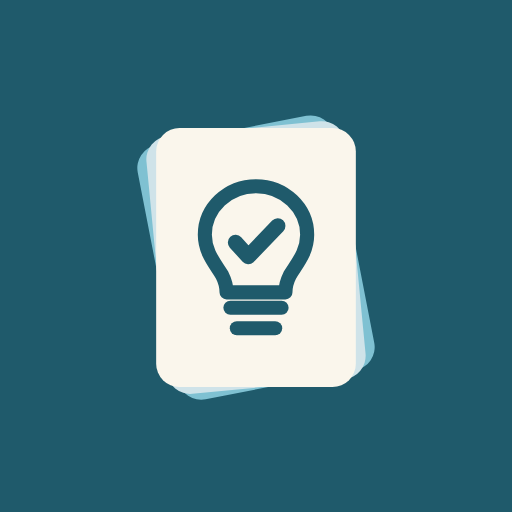
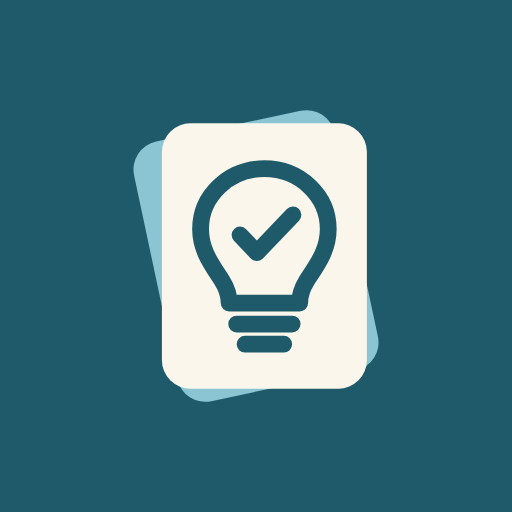
design: refine app identity and refresh project documentation

Changed region(s): [[0.375, 0.3125, 0.6562, 0.6875], [0.3438, 0.2188, 0.75, 0.7812], [0.25, 0.25, 0.3438, 0.75]]

diff --git a/README.md b/README.md
@@ -1,91 +1,167 @@
-# Memonowz
+![Memonowz — 내 자료로 만들고, 틀린 것만 다시 외우다](docs/assets/brand-banner.png)
 
-브라우저에 덱을 저장하고, 카드를 공부하거나 시험을 본 뒤 틀린 것만 다시 푸는 암기용 PWA입니다. 계정과 서버는 사용하지 않습니다.
+내가 가진 단어·기출문제·면접 질문을 덱으로 만들고 반복해서 푸는 **로컬 우선 암기 PWA**입니다. 계정 없이 시작하고, 카드와 학습 기록은 접속한 주소의 브라우저에 저장합니다.
 
-[앱 실행](https://memonowz.vercel.app) · [GitHub](https://github.com/jaymunsh/memonowz) · [JSON·붙여넣기 사용법](docs/card-authoring.md)
+**[앱 바로 열기](https://memonowz.vercel.app)** · [JSON·붙여넣기 가이드](docs/card-authoring.md) · [예시 덱](docs/examples/sample-deck.json) · [변경 기록](CHANGELOG.md)
 
-## 주요 기능
+[![Checks](https://github.com/jaymunsh/memonowz/actions/workflows/ci.yml/badge.svg)](https://github.com/jaymunsh/memonowz/actions/workflows/ci.yml)
 
-- 단어장: 단어 카드와 객관식 문제를 보기 중에서 고릅니다. 직접 지정한 오답 보기가 없으면 같은 덱의 다른 단어에서 뽑습니다.
-- 플래시카드: 답을 떠올린 뒤 뒤집고 스스로 채점합니다.
-- 공부하기: 기록 없이 앞뒤를 넘기며 살펴봅니다.
-- 시험보기: 검색·유형·태그·오답·핵심 필터를 적용하고, 순서와 장수를 선택합니다. 단어장에는 10초 제한을 설정할 수 있습니다.
-- 덱별 이어하기와 마지막 시험 결과를 유지합니다. 새 시험을 시작하면 해당 덱의 마지막 결과를 교체합니다.
-- 진행 중인 시험은 이어하기를 우선 표시합니다. 접힌 학습 설정에서 새 시험을 시작하거나 장수·순서·시간 제한을 바꿀 수 있으며 마지막 선택을 기억합니다.
-- 카드 목록의 정답은 기본으로 숨기며, ‘정답 표시’ 선택을 기억합니다.
-- 학습 기록에서 날짜별 정답률과 자주 틀린 카드를 확인합니다. 시험을 중간에 나가거나 새 시험을 시작해도 채점한 기록은 유지됩니다.
-- 카드 생성·편집·삭제, JSON 파일과 텍스트 붙여넣기, 덱 내보내기, 전체 백업과 복원을 지원합니다.
-- 라이트·다크·시스템 테마, 키보드 조작, 모바일 안전영역을 지원합니다.
-- 설정에서 글자 크기를 기본·크게·아주 크게(16·18·20px 기준)로 조절합니다. 문제, 답, 입력창과 보조 문구도 함께 커집니다.
+## 1분 안에 시작하기
 
-시험에서는 숫자키로 보기를 고르고, Space로 답을 보거나 다음 문제로 넘어갑니다. 뒤집기 채점은 답을 본 후 `1`(몰랐음)·`2`(알았음)으로 합니다. 공부하기에서는 Space로 답 보기·다음, 방향키로 이전·다음 카드를 조작합니다. 입력창과 편집 모달에서는 학습 단축키가 동작하지 않습니다. 버튼에 포커스가 있으면 Space는 해당 버튼의 기본 동작을 유지합니다.
+1. [앱](https://memonowz.vercel.app)을 열고 **설정 → 예시 덱 넣기 → 가져오기**를 누릅니다.
+2. 단어장과 플래시카드 덱을 하나씩 열어 **공부하기**로 답을 살펴봅니다.
+3. **시험보기**로 풀고, 결과에서 **틀린 것만 다시** 복습합니다.
+4. 내 자료를 넣으려면 홈에서 덱을 만든 뒤 **덱 메뉴 → 불러오기**를 사용합니다.
 
-## 실행
+설정에서 글자 크기와 테마를 바꿀 수 있습니다. 브라우저의 설치 메뉴로 홈 화면이나 독립 창에서도 사용할 수 있습니다. 온라인에서 앱을 한 번 열어 캐시가 준비된 뒤에는 저장된 덱을 오프라인에서도 학습할 수 있습니다.
 
-Node.js 24와 Corepack을 사용합니다. `packageManager`에 pnpm 버전이 고정되어 있습니다.
+## 내가 공부할 자료에 맞춰
+
+| 할 일 | Memonowz에서 하는 방법 |
+|---|---|
+| 단어와 용어 외우기 | **단어장**에서 보기를 골라 채점합니다. 오답을 직접 적거나 같은 덱의 다른 단어에서 가져옵니다. |
+| 긴 답변 떠올리기 | **플래시카드**에서 답을 뒤집어 확인하고 ‘몰랐음·알았음’으로 스스로 채점합니다. |
+| 틀린 카드만 복습하기 | 검색·유형·태그·틀림·핵심(★) 필터를 적용합니다. 결과에서도 오답만 다시 풀 수 있습니다. |
+| 짧게 나눠 공부하기 | 랜덤순·글자순, 10·20·50·전체 장수를 선택합니다. 단어장에는 문제마다 10초 제한을 켤 수 있습니다. |
+| 중간에 나갔다 돌아오기 | 덱별 **이어하기**를 제공합니다. 마지막 학습 조건과 정답 표시 선택도 기억합니다. |
+| 학습한 만큼 살펴보기 | **학습 기록**에서 날짜별 정답률과 자주 틀린 카드를 확인합니다. 중간에 끝낸 시험도 기록됩니다. |
+| 편하게 읽기 | 라이트·다크·시스템 테마와 글자 크기 기본·크게·아주 크게(16·18·20px 기준)를 지원합니다. |
+
+공부하기는 기록 없이 앞뒤를 살펴보는 모드입니다. 시험보기에서 채점한 답만 통계와 학습 기록에 쌓입니다. 자동 간격반복(SRS), 계정·클라우드 동기화, 앱 안의 AI 생성 기능은 아직 없습니다.
+
+<details>
+<summary>실제 화면 보기 — 덱과 학습 기록</summary>
+
+### 덱에서 고르고, 필요한 만큼 시험보기
+
+![검색과 필터, 학습 순서·장수 설정이 있는 Memonowz 덱 화면](docs/assets/deck.png)
+
+### 중간에 끝내도 남는 학습 기록
+
+![날짜별 채점 수와 정답률, 자주 틀린 카드를 보여주는 학습 기록 화면](docs/assets/history.png)
+
+위 화면은 앱에 포함된 예시 덱을 사용하는 모습입니다.
+
+</details>
+
+## 내 자료 가져오기
+
+### Excel·Google Sheets는 두 열만 복사
+
+첫 열에 앞면, 둘째 열에 뒷면을 적고 **제목 행 없이** 복사합니다. 덱 메뉴 → 불러오기 → 붙여넣기에 넣으면 `term` 카드로 바뀝니다. 기본 설정은 **한 줄에 한 장 / 탭 (Excel·Sheets)** 입니다.
+
+직접 입력할 때는 앞뒤 나누기 → 직접 입력에서 `::`를 지정해 다음처럼 쓸 수도 있습니다.
+
+```text
+cohesion::응집도
+coupling::결합도
+```
+
+입력 즉시 앞뒤와 장수를 미리 보고, 제외되는 행의 위치와 이유를 확인할 수 있습니다. 저장 버튼을 눌러야 덱에 추가됩니다.
+
+### JSON으로 설명과 객관식까지
+
+아래 전체 내용을 UTF-8 일반 텍스트 파일 `my-deck.json`으로 저장합니다. **설정 → 백업 또는 덱 파일 가져오기**에서 선택하고 확인 창의 **가져오기**를 누르면 새 덱이 생깁니다.
+
+```json
+{
+  "deck": {
+    "name": "소프트웨어 설계",
+    "flipOnly": false
+  },
+  "cards": [
+    {
+      "type": "term",
+      "front": "cohesion",
+      "back": "응집도",
+      "distractors": ["결합도", "추상화", "캡슐화"],
+      "tags": ["설계"],
+      "explanation": "한 모듈 안의 요소들이 같은 목적에 모인 정도다.",
+      "starred": true
+    },
+    {
+      "type": "mcq",
+      "question": "모듈 사이의 의존 정도를 뜻하는 것은?",
+      "choices": ["응집도", "결합도", "상속"],
+      "answer": 1,
+      "explanation": "결합도는 모듈 사이, 응집도는 모듈 내부를 본다."
+    }
+  ]
+}
+```
+
+- `answer`는 **0부터 세는 보기 위치**입니다. `1`은 두 번째 보기인 ‘결합도’를 뜻합니다.
+- `flipOnly: true`로 만들면 답을 떠올리고 뒤집어 채점하는 플래시카드 덱이 됩니다.
+- 기존 덱에 카드만 추가할 때는 `cards` 배열의 내용만 `[ ... ]`로 감싼 파일도 사용할 수 있습니다. 설정에서는 새 덱의 이름이 필요합니다.
+- JSON은 **파일 선택**으로 가져옵니다. JSON 코드를 텍스트 붙여넣기 칸에 넣는 방식은 지원하지 않습니다.
+
+[카드 작성 가이드](docs/card-authoring.md)에 필드 규칙, 여러 덱을 담는 파일, 긴 답 붙여넣기, 오류 처리와 외부 AI용 프롬프트를 정리했습니다. 바로 실행해 볼 파일은 [sample-deck.json](docs/examples/sample-deck.json)입니다.
+
+## 자료 공유와 학습 백업
+
+| 파일 | 내보내는 위치 | 포함하는 정보 |
+|---|---|---|
+| 덱 교환 파일 | 덱 메뉴 → 덱 내보내기 | 덱 유형, 카드 내용·태그·설명·핵심 표시 |
+| 전체 백업 | 설정 → 전체 백업 내보내기 | 덱·카드, 누적 통계, 생성 시각, 이어하기·마지막 결과, 날짜별 채점 기록 |
+
+**전체 백업 복원은 설정에서 합니다.** 기존 덱을 유지하면서 새 ID로 덱을 추가하고 기록·세션 참조도 함께 옮깁니다. 같은 파일을 다시 가져오면 덱도 다시 추가됩니다. 덱의 불러오기에서 전체 백업을 선택하면 카드 내용만 추가되며 학습 상태는 복구되지 않습니다.
+
+데이터는 **주소·브라우저·기기별로 따로 저장**됩니다. 로컬 주소에서 배포 주소로 옮기거나 브라우저 데이터를 삭제하기 전에 전체 백업을 다운로드하세요. 테마·글자 크기·마지막 학습 설정은 백업에 포함되지 않습니다.
+
+날짜별 기록은 기록 기능이 추가된 뒤 실제로 채점한 답부터 쌓입니다. 이전 버전의 날짜 없는 누적 통계를 추정해 과거 기록으로 만들지 않습니다. 카드를 삭제하거나 ‘외웠어요’를 눌러도 지난 기록은 유지되며, 덱을 삭제하면 해당 덱의 기록도 삭제됩니다.
+
+## 키보드로 학습하기
+
+| 모드 | 키 |
+|---|---|
+| 시험 | 숫자키로 보기 선택 · `Space`로 답 보기·다음 |
+| 뒤집기 채점 | 답을 본 뒤 `1` 몰랐음 · `2` 알았음 |
+| 공부 | `Space`로 답 보기·다음 · 방향키로 이전·다음 |
+
+입력창과 편집 모달에서는 학습 단축키가 동작하지 않습니다. 버튼에 포커스가 있으면 Space는 그 버튼의 기본 동작을 유지합니다.
+
+## 로컬 실행과 검증
+
+Node.js 24와 Corepack을 사용합니다. pnpm 버전은 `packageManager`에 고정되어 있습니다.
 
 ```sh
+git clone https://github.com/jaymunsh/memonowz.git
+cd memonowz
 corepack pnpm install --frozen-lockfile
 corepack pnpm dev
 ```
 
-pnpm이 설치되어 있다면 `corepack pnpm` 대신 `pnpm`을 사용해도 됩니다.
-
 ```sh
-corepack pnpm check        # strict TypeScript와 단위 테스트
-corepack pnpm build        # 프로덕션 PWA 빌드
-corepack pnpm preview      # 빌드 결과 확인
-```
-
-## 테스트
-
-```sh
-corepack pnpm test
+corepack pnpm check                 # strict TypeScript + 단위 테스트
+corepack pnpm build                 # 프로덕션 PWA 빌드
+corepack pnpm preview               # 빌드 결과 확인
 corepack pnpm exec playwright install chromium
-corepack pnpm test:e2e
+corepack pnpm test:e2e              # 브라우저 회귀 테스트
 ```
 
-Vitest는 스키마·파서·출제·편집 변환·저장소 트랜잭션·마이그레이션·백업을 검증합니다. Playwright는 실제 IndexedDB를 사용해 편집, 이어하기, 새로고침, 저장 실패 재시도, 백업 복원과 모달 키보드 조작을 검증합니다. 브라우저 테스트마다 새로운 브라우저 컨텍스트를 사용하므로 개인 덱에 접근하지 않습니다.
+Vitest는 스키마·파서·출제·편집·트랜잭션·마이그레이션·백업을 검증합니다. Playwright는 실제 IndexedDB로 편집·이어하기·새로고침·저장 실패 재시도·백업 복원과 키보드 조작을 확인합니다. 브라우저 테스트는 개인 덱과 분리된 새 컨텍스트에서 실행합니다.
 
-설치된 Chromium을 사용하려면 `PLAYWRIGHT_CHROMIUM_EXECUTABLE_PATH`에 실행 파일 경로를 지정할 수 있습니다. GitHub Actions에서는 테스트, 타입 검사, 빌드와 Chromium 브라우저 테스트를 실행합니다.
+설치된 Chromium을 사용하려면 `PLAYWRIGHT_CHROMIUM_EXECUTABLE_PATH`를 지정할 수 있습니다. GitHub Actions는 타입 검사·단위 테스트·빌드·브라우저 테스트를 실행합니다.
 
-## 데이터와 백업
+## 구조와 배포
 
-데이터는 접속한 주소의 브라우저 IndexedDB에 저장됩니다. 다른 주소·브라우저·기기에서는 자동으로 공유되지 않습니다. 브라우저 데이터를 삭제하기 전에 전체 백업을 내보내세요.
-
-- **덱 메뉴 → 덱 내보내기:** `{ deck, cards }` 형식의 교환용 파일입니다. 덱 유형, 카드 내용과 핵심 표시를 포함하며 학습 통계는 포함하지 않습니다.
-- **설정 → 전체 백업 내보내기:** `version: 1` 형식으로 덱·카드·통계·생성 시각·세션·날짜별 채점 기록을 보존합니다. 화면 설정은 이 브라우저에 별도로 저장됩니다.
-- **설정 → 가져오기:** 파일을 확인한 뒤 기존 덱을 유지하면서 새 덱으로 추가합니다. 전체 백업은 ID를 새로 매기고 세션 참조도 함께 옮깁니다. 같은 파일을 다시 가져오면 별도의 덱이 추가됩니다.
-- **덱 → 불러오기:** 파일의 카드 내용만 현재 덱에 추가합니다. 학습 기록을 복구하려면 설정에서 전체 백업을 가져오세요.
-
-이전 `{ decks: [{ deck, cards }] }` 백업과 단일 덱 파일도 읽을 수 있습니다. 이전 백업에 없던 통계·세션은 복원할 수 없습니다. 단일 카드 배열은 덱의 불러오기 화면에서 사용합니다.
-
-날짜별 기록은 이 기능 추가 후 실제로 채점한 답부터 쌓입니다. 이전 버전에는 답마다 날짜를 저장하지 않아 과거 누적 통계를 날짜별로 나눌 수 없습니다. 카드를 삭제하거나 ‘외웠어요’를 눌러도 지난 채점 기록은 유지되며, 덱을 삭제하면 해당 덱의 기록도 삭제됩니다. 글자 크기와 마지막 학습 설정은 백업에 포함되지 않습니다.
-
-카드 작성 형식은 [카드 작성 가이드](docs/card-authoring.md), 실제 예시는 [예시 덱](docs/examples/sample-deck.json)을 참고하세요.
-
-## 구조
+React · TypeScript · Vite · Dexie · Zod로 구성했습니다.
 
 | 경로 | 역할 |
 |---|---|
-| `src/types` | Zod 스키마, 카드·덱·세션·백업 계약 |
-| `src/db` | Dexie와 IndexedDB, CRUD·트랜잭션·백업 |
-| `src/card` | 편집 폼과 카드 초안 변환 |
-| `src/deck` | 홈, 덱 목록과 학습 조건 |
-| `src/study` | 출제 엔진, 공부·시험·결과 |
-| `src/import` | 파일 검증, 붙여넣기와 설정 |
-| `src/ui` | 디자인 토큰, 공통 UI·아이콘 |
-| `src/app` | 라우팅, 테마, 오류·저장소 처리, 공통 덱 생성 |
-| `tests/e2e` | 브라우저 회귀 테스트 |
+| `src/types` | 카드·덱·세션·기록·백업 스키마 |
+| `src/db` | IndexedDB CRUD, 트랜잭션, 백업과 복원 |
+| `src/card`, `src/deck`, `src/study` | 카드 편집과 학습 화면 |
+| `src/import` | 파일 검증과 텍스트 붙여넣기 |
+| `src/app`, `src/ui` | 라우팅·설정·오류 처리와 공통 UI |
+| `tests/e2e` | 실제 브라우저 회귀 테스트 |
 
-학습 통계, 세션 진행도와 날짜별 채점 기록은 하나의 트랜잭션으로 저장합니다. 저장 실패 시 다음 문제로 진행하지 않으며, 같은 답으로 재시도해도 횟수가 중복 누적되지 않습니다.
+채점 통계·세션 진행도·날짜별 기록은 하나의 트랜잭션으로 저장합니다. 저장에 실패하면 다음 문제로 진행하지 않으며 재시도로 횟수가 중복 누적되지 않습니다.
 
-## 배포와 모바일 확인
+[Vercel 공개 앱](https://memonowz.vercel.app)은 `vercel.json`의 Vite 빌드·`dist` 출력·SPA 경로 설정으로 배포합니다. CLI에서 프로젝트를 연결한 뒤 `vercel --prod`를 사용합니다. Git push 자동 배포를 사용하려면 Vercel GitHub 앱을 설치하고 저장소를 연결해야 합니다.
 
-현재 공개 앱은 [memonowz.vercel.app](https://memonowz.vercel.app)에 배포되어 있습니다. `vercel.json`에 Vite 빌드, `dist` 출력과 SPA 경로 처리가 설정되어 있습니다. Vercel CLI로 프로젝트를 연결한 뒤 `vercel --prod`로 배포할 수 있습니다. Git push에 따른 자동 배포를 사용하려면 Vercel의 GitHub 앱을 설치하고 해당 저장소를 연결해야 합니다.
+다른 HTTPS 정적 호스팅도 사용할 수 있습니다. 모든 앱 경로를 `index.html`로 보내는 SPA fallback을 설정하세요. PWA 설치와 오프라인 검증은 개발 서버가 아닌 빌드 결과에서 진행합니다. 사용한 폰트 서브셋을 실행 중 캐시하므로 아직 캐시하지 않은 글자는 오프라인에서 시스템 폰트로 보일 수 있습니다. [로컬·모바일 테스트 절차](docs/local-testing.md)를 참고하세요.
 
-`dist/`를 HTTPS 정적 호스팅에 배포하고 모든 앱 경로를 `index.html`로 보내는 SPA fallback을 설정하세요. PWA 설치와 오프라인 확인은 개발 서버가 아닌 빌드 결과로 진행합니다. 자세한 절차는 [로컬·모바일 테스트](docs/local-testing.md)에 있습니다.
+초기 설계 기록은 `docs/superpowers/`에 보관했습니다. 현재 기능과 데이터 계약은 이 README, 카드 작성 가이드와 코드가 기준입니다.
 
-화면에 필요한 폰트 서브셋은 실행 중 캐시합니다. 오프라인에서 처음 보는 글자 범위에는 시스템 폰트가 사용될 수 있습니다.
-
-초기 설계·계획 문서는 `docs/superpowers/`에 보관되어 있으며, 현재 기능과 데이터 계약은 이 README 및 코드가 기준입니다.
+아이콘 원본과 README·공유용 이미지의 위치는 [브랜드 자산 안내](docs/branding.md)에 정리했습니다.

diff --git a/docs/branding.md b/docs/branding.md
@@ -1,0 +1,26 @@
+# Memonowz 브랜드 자산
+
+겹친 카드와 체크 표시를 품은 전구를 사용한다. 카드로 자료를 모으고, 답을 떠올리고, 확인하는 학습 흐름을 표현한다.
+
+- 강조색: 딥 페트롤 `#1F5A6B`
+- 카드: 아이보리 `#FAF6EC`
+- 뒤쪽 카드: `#8BC5D3`
+- 서체: IBM Plex Sans KR
+
+## 파일
+
+| 용도 | 파일 |
+|---|---|
+| 아이콘 원본 | [public/icon.svg](../public/icon.svg) |
+| PWA 아이콘 | `public/icon-192.png`, `public/icon-512.png` |
+| Maskable 아이콘 | `public/icon-192-maskable.png`, `public/icon-512-maskable.png` |
+| iOS 홈 화면 | `public/apple-touch-icon.png` |
+| 브라우저 탭 | `public/favicon-16.png`, `public/favicon-32.png` |
+| README 배너 | [assets/brand-banner.svg](assets/brand-banner.svg), [assets/brand-banner.png](assets/brand-banner.png) |
+| 공유용 이미지 | [assets/social-preview.png](assets/social-preview.png) (1280×640) |
+
+PNG는 벡터 원본을 각 크기에 맞춰 렌더링한 자산이다. Maskable 버전은 배경을 끝까지 채우고 카드 표식을 중앙의 안전영역 안으로 줄였다. 작은 favicon도 같은 원본을 사용한다.
+
+README에는 서체가 일관되게 보이도록 PNG 배너를 사용한다. 배너의 문구와 구성은 SVG 원본에 보관한다.
+
+공유용 이미지는 GitHub **Settings → Social preview**에서 업로드할 수 있다. 파일을 저장소에 넣는 것만으로 저장소의 공유 미리보기가 바뀌지는 않는다. [GitHub 설정 안내](https://docs.github.com/en/repositories/managing-your-repositorys-settings-and-features/customizing-your-repository/customizing-your-repositorys-social-media-preview)를 참고한다.

diff --git a/CHANGELOG.md b/CHANGELOG.md
@@ -1,0 +1,30 @@
+# 변경 기록
+
+## 2026-10-01
+
+### 학습 흐름
+
+- 덱별 이어하기를 우선 표시하고 새 시험의 순서·장수·시간 제한을 기억합니다.
+- 카드 목록의 정답을 기본으로 숨기고 표시 선택을 저장합니다.
+- 글자 크기 기본·크게·아주 크게와 학습 키보드 단축키를 추가했습니다.
+- 날짜별 채점 수·정답률과 자주 틀린 카드 기록을 추가했습니다.
+
+### 저장과 복원
+
+- 카드 통계·진행도·날짜별 기록을 한 트랜잭션으로 저장합니다.
+- 저장 실패 시 진행을 멈추고 중복 채점 없이 재시도합니다.
+- 전체 백업에 통계·이어하기·채점 기록을 포함하며 복원 시 ID와 참조를 함께 옮깁니다.
+- 삭제된 카드가 있는 세션과 기록을 처리하고 이전 데이터베이스를 마이그레이션합니다.
+
+### 자료 입력과 접근성
+
+- Excel·Sheets 두 열 붙여넣기를 기본으로 두고 저장 전 미리보기와 제외 행을 보여줍니다.
+- 객관식 보기 편집 때 정답 위치를 올바르게 유지합니다.
+- 모달의 키보드·포커스 처리와 모바일 버튼 크기를 개선했습니다.
+- JSON 작성 가이드와 실제 예시, 빠른 시작 설명을 정리했습니다.
+
+### 공개 배포와 프로젝트 소개
+
+- GitHub Checks와 Vercel 공개 배포를 추가했습니다.
+- 카드·전구 모티프의 아이콘과 PWA·favicon 이미지를 정돈했습니다.
+- README에 브랜드 배너, 실제 화면, 사용법과 변경 기록을 추가했습니다.
